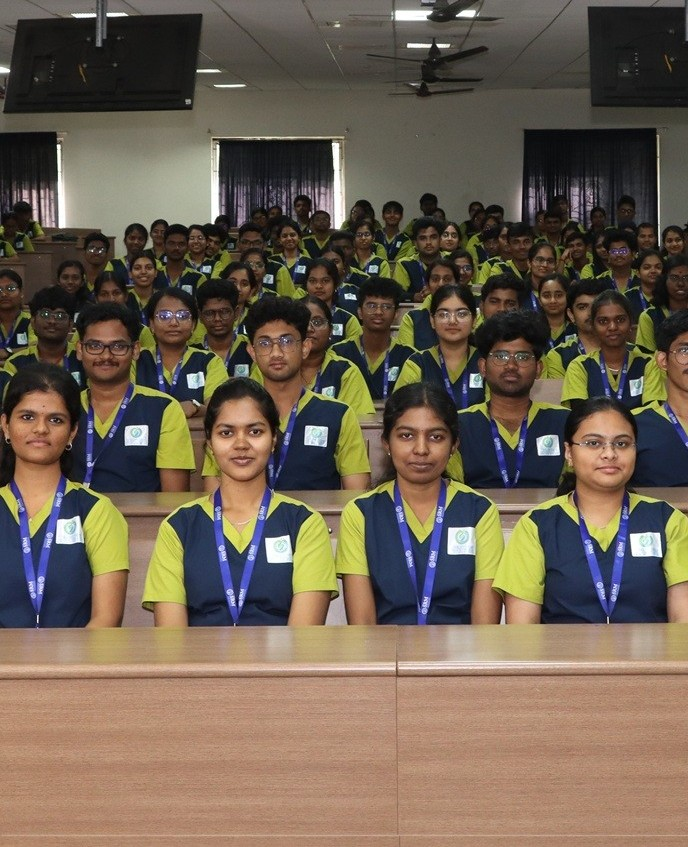
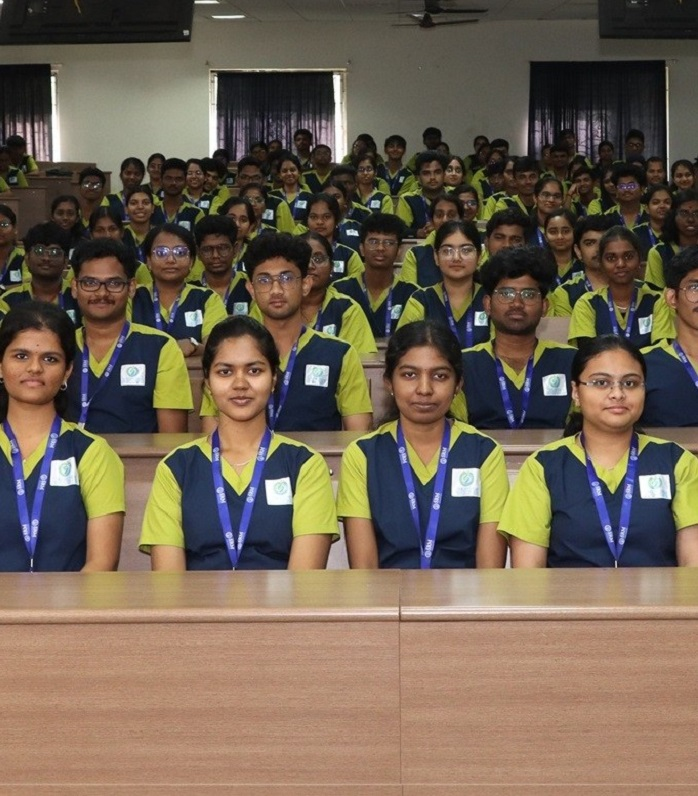
New Changes

diff --git a/assets/js/depart_specialities.js b/assets/js/depart_specialities.js
@@ -2843,7 +2843,7 @@ async function loadDoctorsFromExcel() {
                         <div class="overview-card">
                             <h2 class="section-title" style="color:${dept.colorDark}">Department Overview</h2>
                             <div class="dept-overview">
-                                <img src="./assets/images/dept_images/${dept.name}/hero-image.jpg" onerror="this.onerror=null; this.src='./assets/images/Hero.jpg';" alt="">
+                                <img src="./assets/images/dept_images/${dept.name}/hero-image.jpg" onerror="this.onerror=null; this.src='./assets/images/Hero.png';" alt="">
                                 <p class="overview-text">${dept.overview}</p>
                             </div>
                         </div>

diff --git a/hospital.html b/hospital.html
@@ -37,7 +37,7 @@
         <div class="hospital-hero-container">
             <!-- LEFT: IMAGE -->
             <div class="hospital-hero-image">
-                <img src="./assets/images/Hero.jpg" alt="Doctors at Trichy SRM Medical College">
+                <img src="./assets/images/Hero.png" alt="Doctors at Trichy SRM Medical College">
                 <div class="hospital-badge">
                     <i class="fas fa-certificate"></i> NABH Accredited
                 </div>

diff --git a/hospital_old.html b/hospital_old.html
@@ -37,7 +37,7 @@
         <div class="hospital-hero-container">
             <!-- LEFT: IMAGE -->
             <div class="hospital-hero-image">
-                <img src="./assets/images/Hero.jpg" alt="Doctors at Trichy SRM Medical College">
+                <img src="./assets/images/Hero.png" alt="Doctors at Trichy SRM Medical College">
                 <div class="hospital-badge">
                     <i class="fas fa-certificate"></i> NABH Accredited
                 </div>

diff --git a/lab_reports.html b/lab_reports.html
@@ -37,7 +37,7 @@
         <div class="hospital-hero-container">
             <!-- LEFT: IMAGE -->
             <div class="hospital-hero-image">
-                <img src="./assets/images/Hero.jpg" alt="Doctors at Trichy SRM Medical College">
+                <img src="./assets/images/Hero.png" alt="Doctors at Trichy SRM Medical College">
                 <div class="hospital-badge">
                     <i class="fas fa-certificate"></i> NABH Accredited
                 </div>
